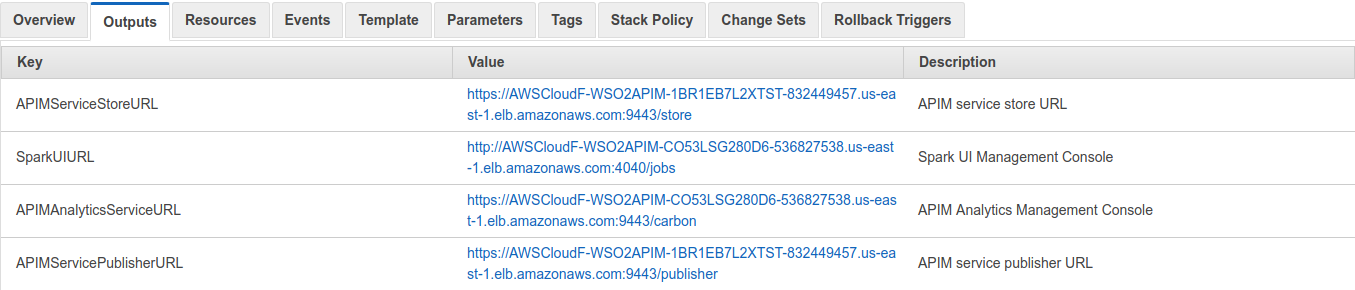
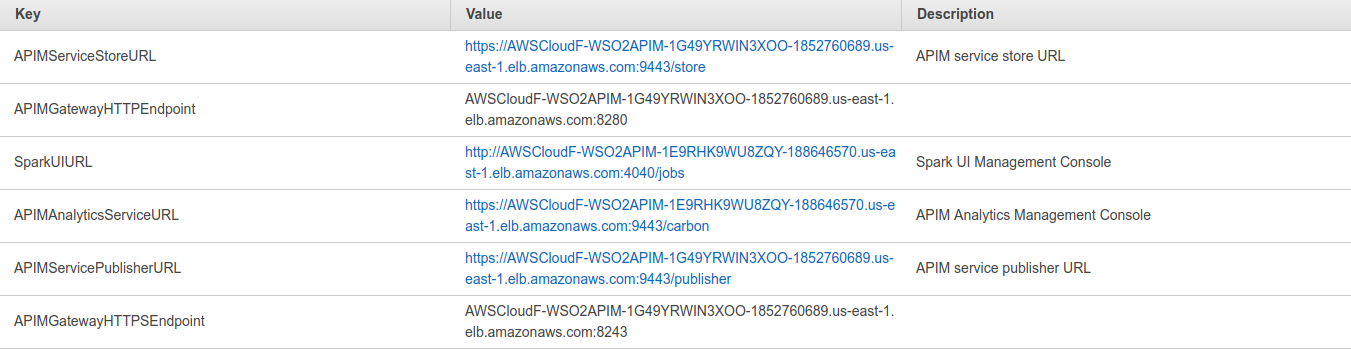
Update outputs to display APIM Gateway Endpoints

Changed region(s): [[0.0, 0.0, 1.0, 0.9621], [0.0, 0.9931, 1.0, 1.0]]

diff --git a/README.md b/README.md
@@ -23,6 +23,8 @@ git clone https://github.com/wso2/aws-apim.git
    * Username: admin <br>
    * Password: admin
 
+APIM Gateway Endpoints are available in the **Outputs** tab.
+
 ![Successful stack](APIM-with-Analytics/images/stackcreation.png)
 
 **NOTE:** The services available through above URLs may take a around 10 minutes to become available, after stack creation.
